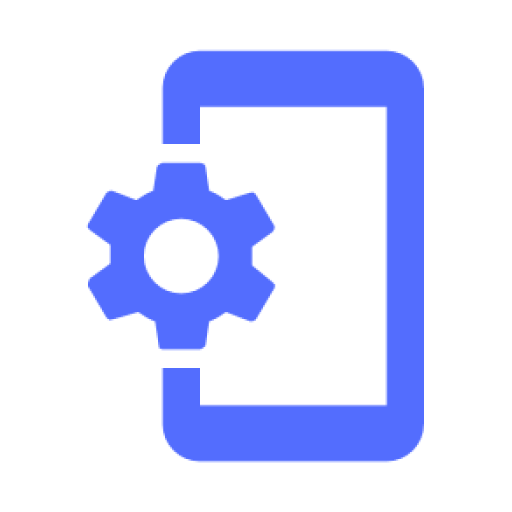
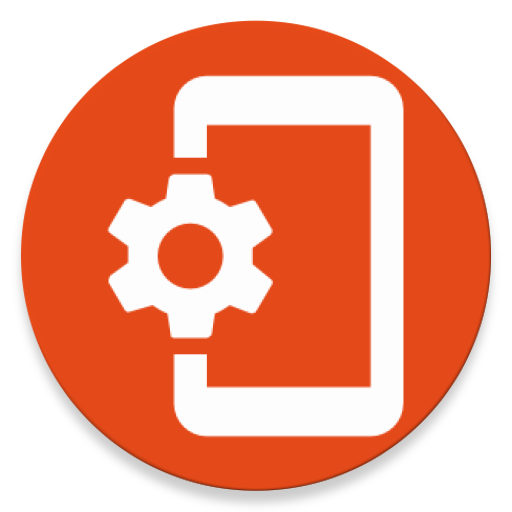
Cambios en apariencia: Icono y Alerts dialog

diff --git a/app/src/main/java/app/android/mmauri/laboratorio_08_navigation_drawer/Activities/MainActivity.java b/app/src/main/java/app/android/mmauri/laboratorio_08_navigation_drawer/Activities/MainActivity.java
@@ -23,6 +23,7 @@ public class MainActivity extends AppCompatActivity implements NavigationView.On
 
     private DrawerLayout drawerLayout;
     private NavigationView navigationView;
+    private Switch optionSwitch;
 
     @Override
     protected void onCreate(Bundle savedInstanceState) {
@@ -35,7 +36,6 @@ public class MainActivity extends AppCompatActivity implements NavigationView.On
 
         // Configurar comportamiento de las opciones del menu
         navigationView.setNavigationItemSelectedListener(this);
-
     }
 
     private void setToolbar() {
